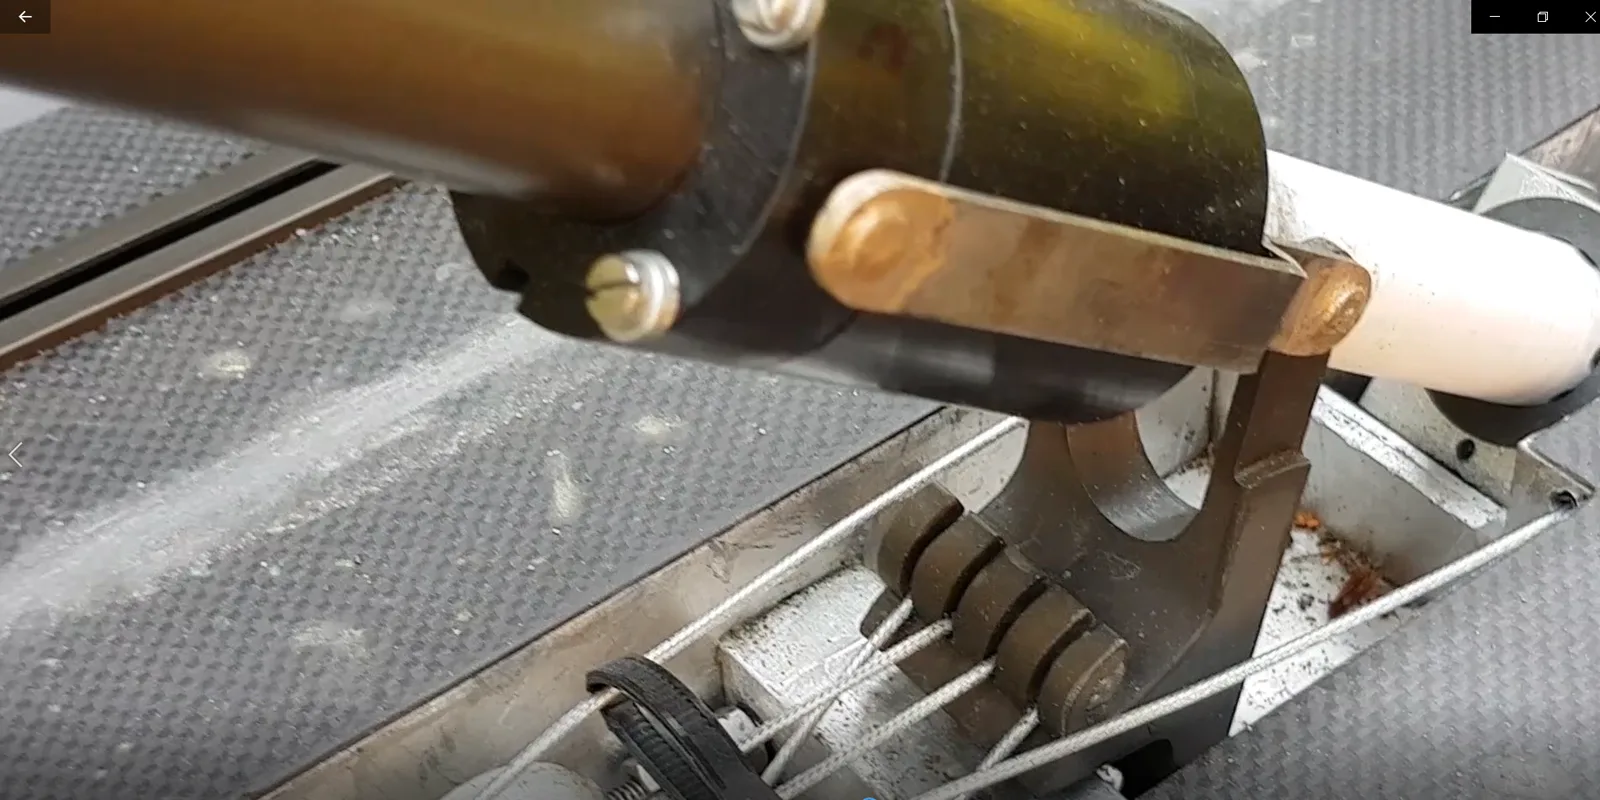
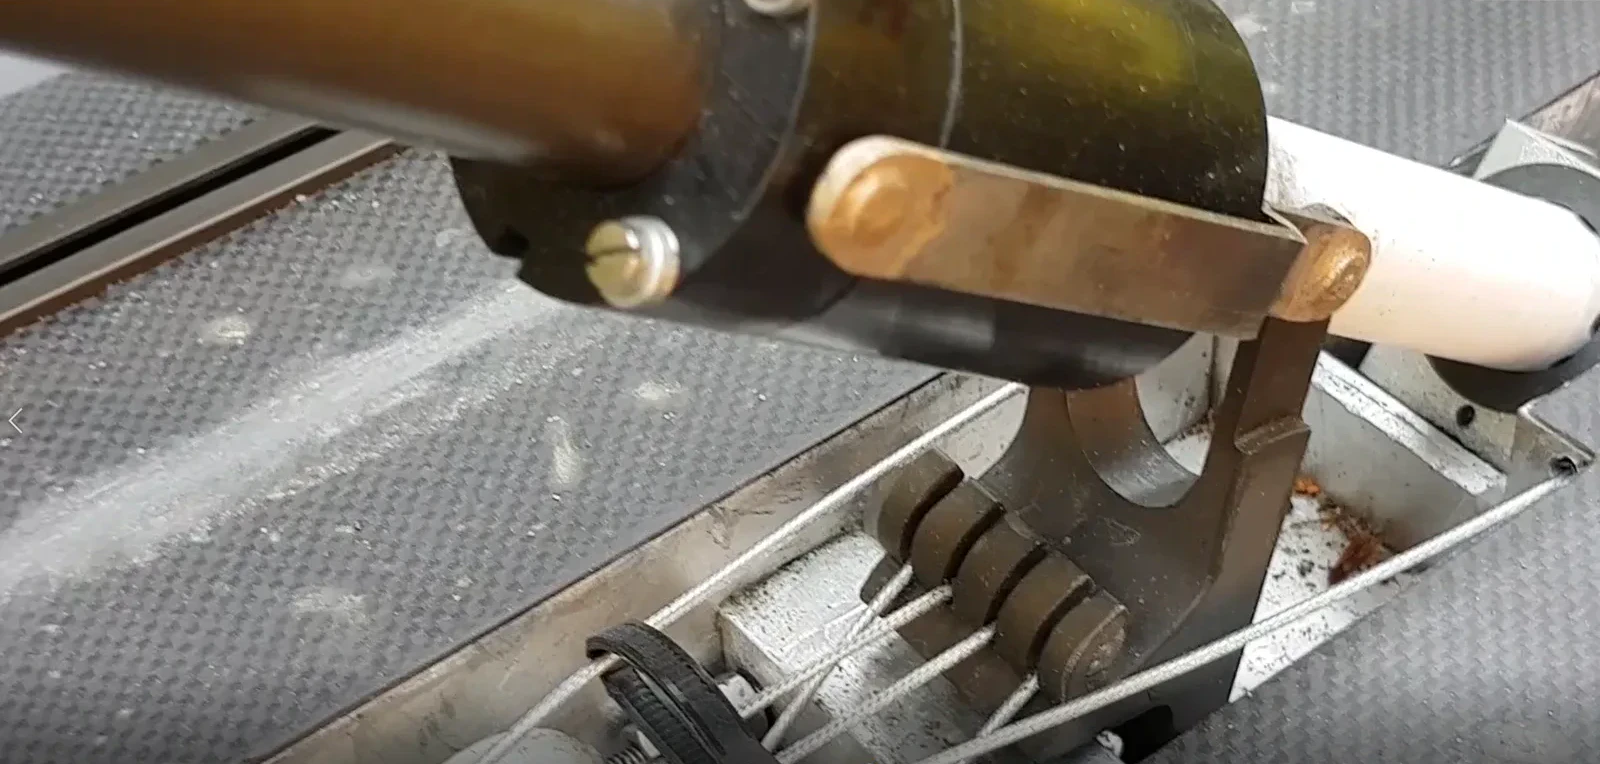
Trim top 20px off brake_lever.webp (#12)
* chore(media): trim top 20px off brake_lever.webp

* chore(media): trim another 10px off top of brake_lever.webp

* chore(media): trim another 5px off top of brake_lever.webp

* fix(technique): match brake_lever image dimensions (1600x764)

diff --git a/src/components/site/technique.tsx b/src/components/site/technique.tsx
@@ -60,8 +60,8 @@ export function Technique() {
             <Image
               src="/media/brake_lever.webp"
               alt="the dijker — steering & brakes"
-              width={1200}
-              height={900}
+              width={1600}
+              height={764}
               sizes="(min-width: 768px) 50vw, 100vw"
               className="h-full w-full object-cover"
             />
